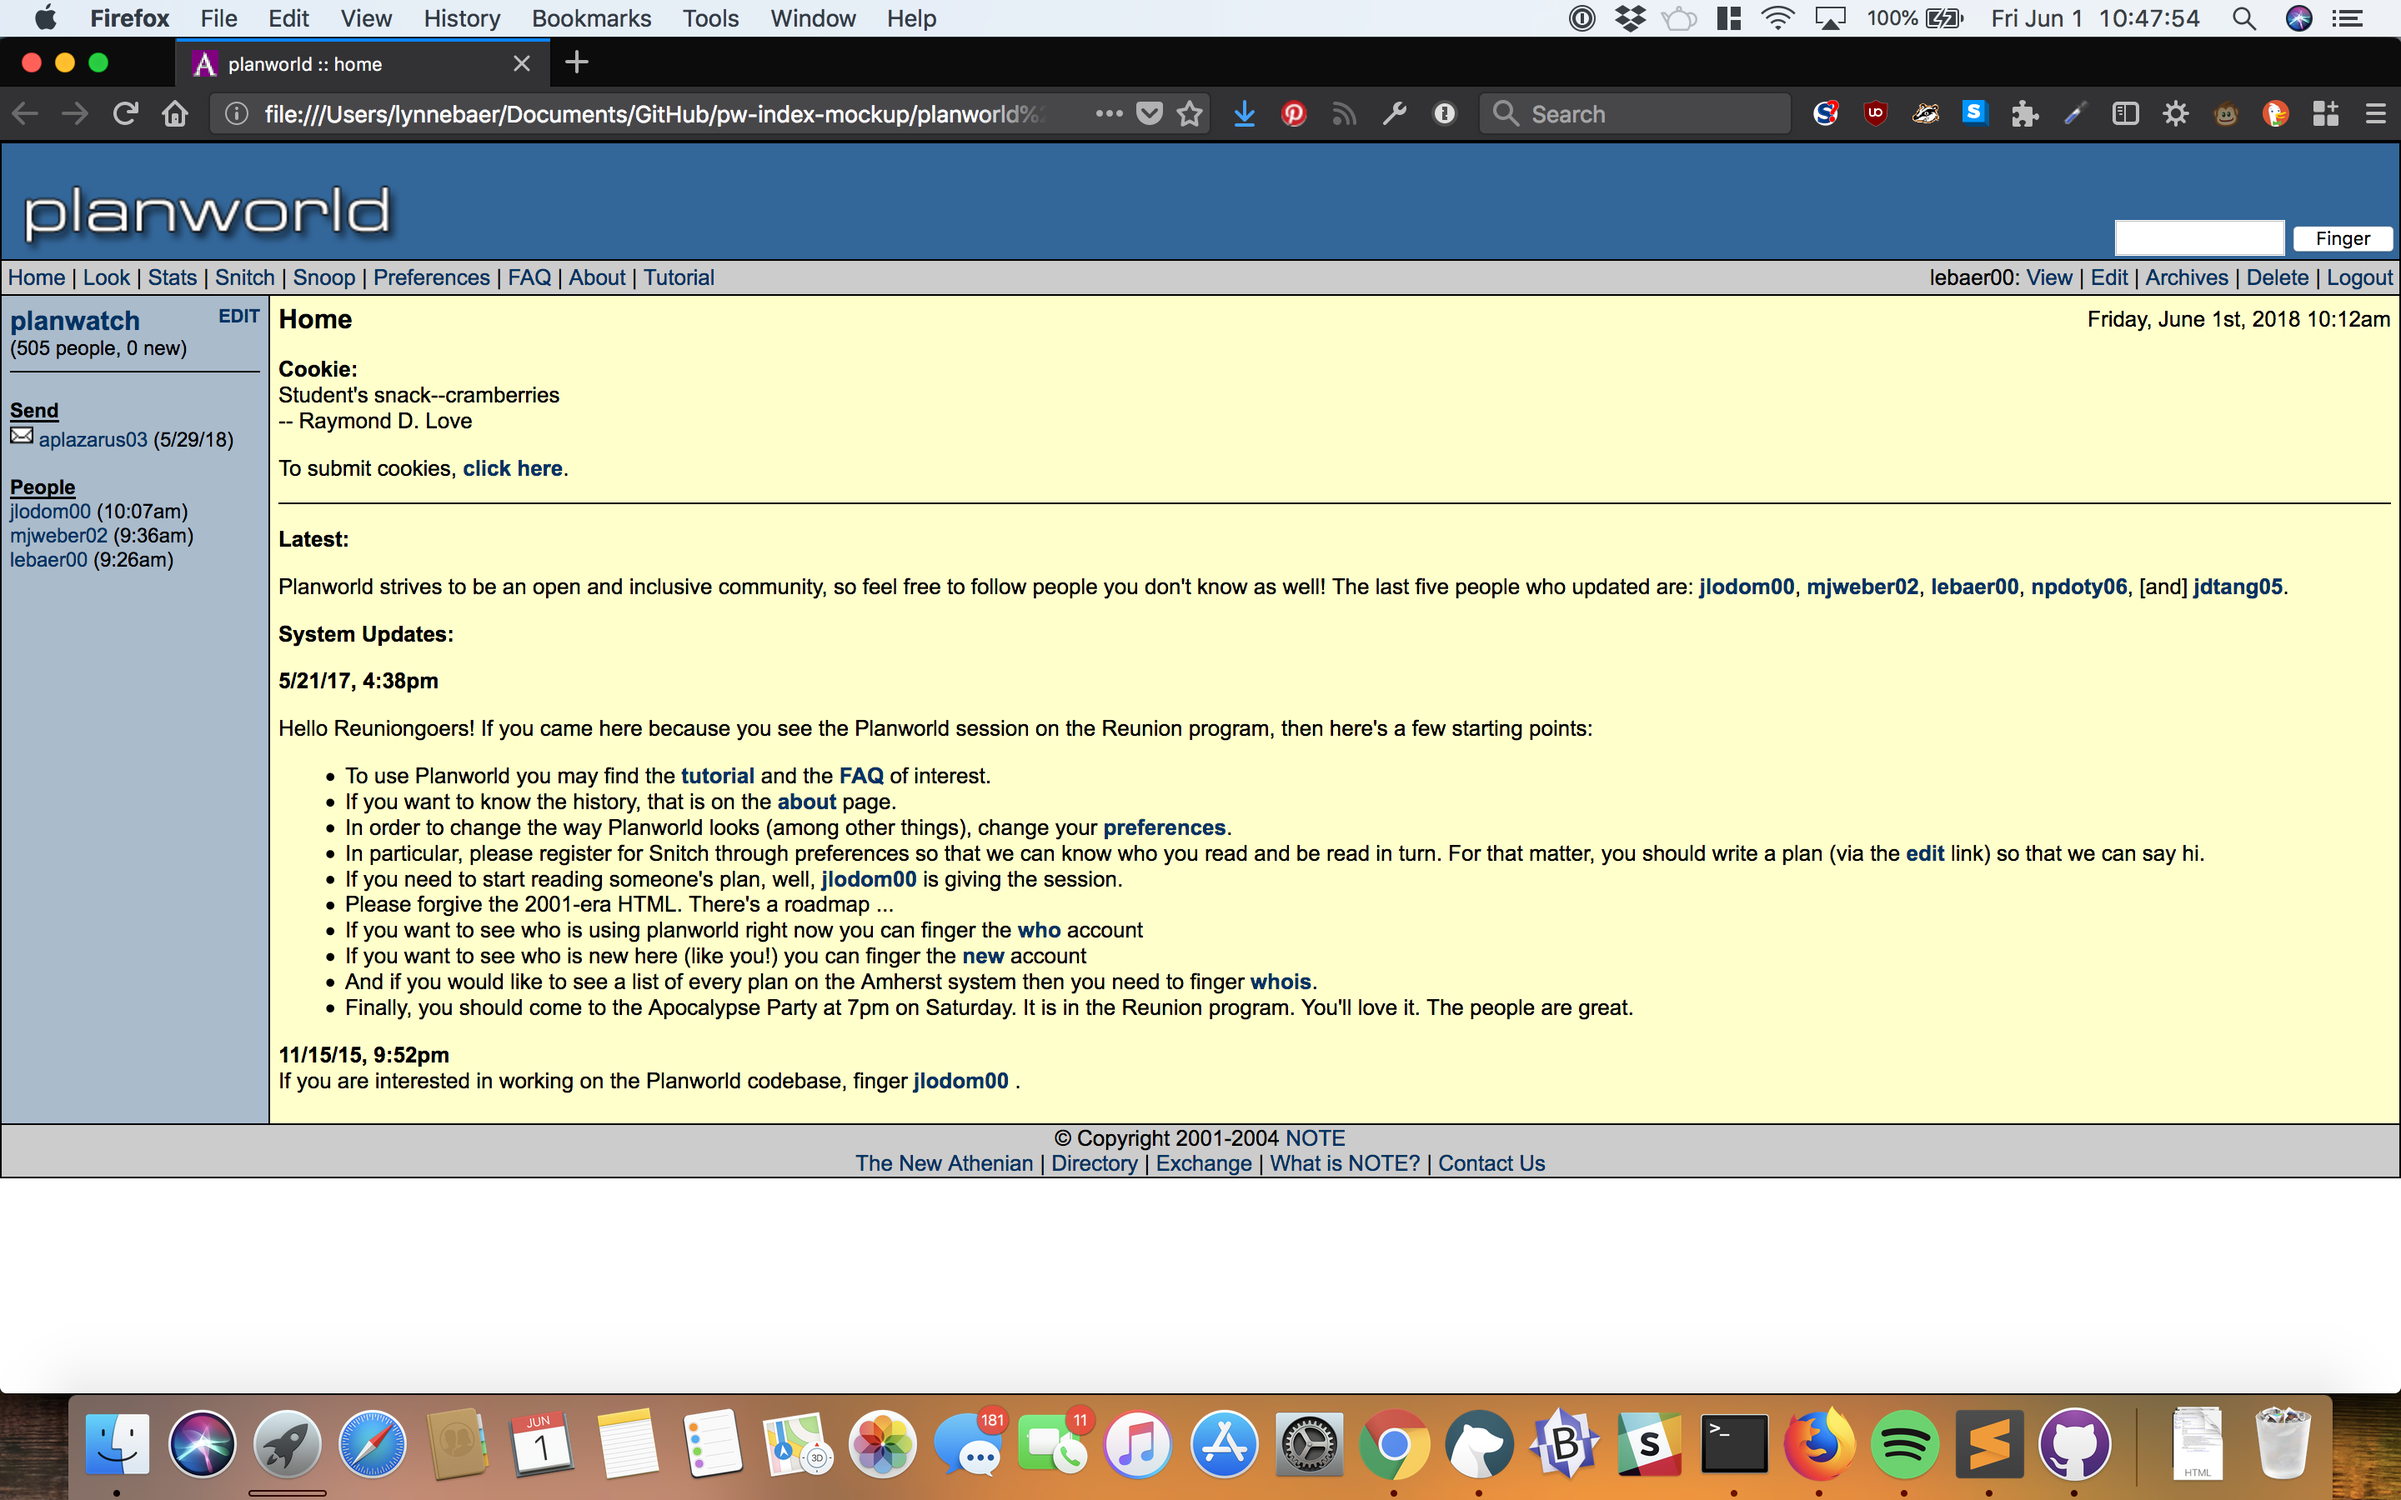
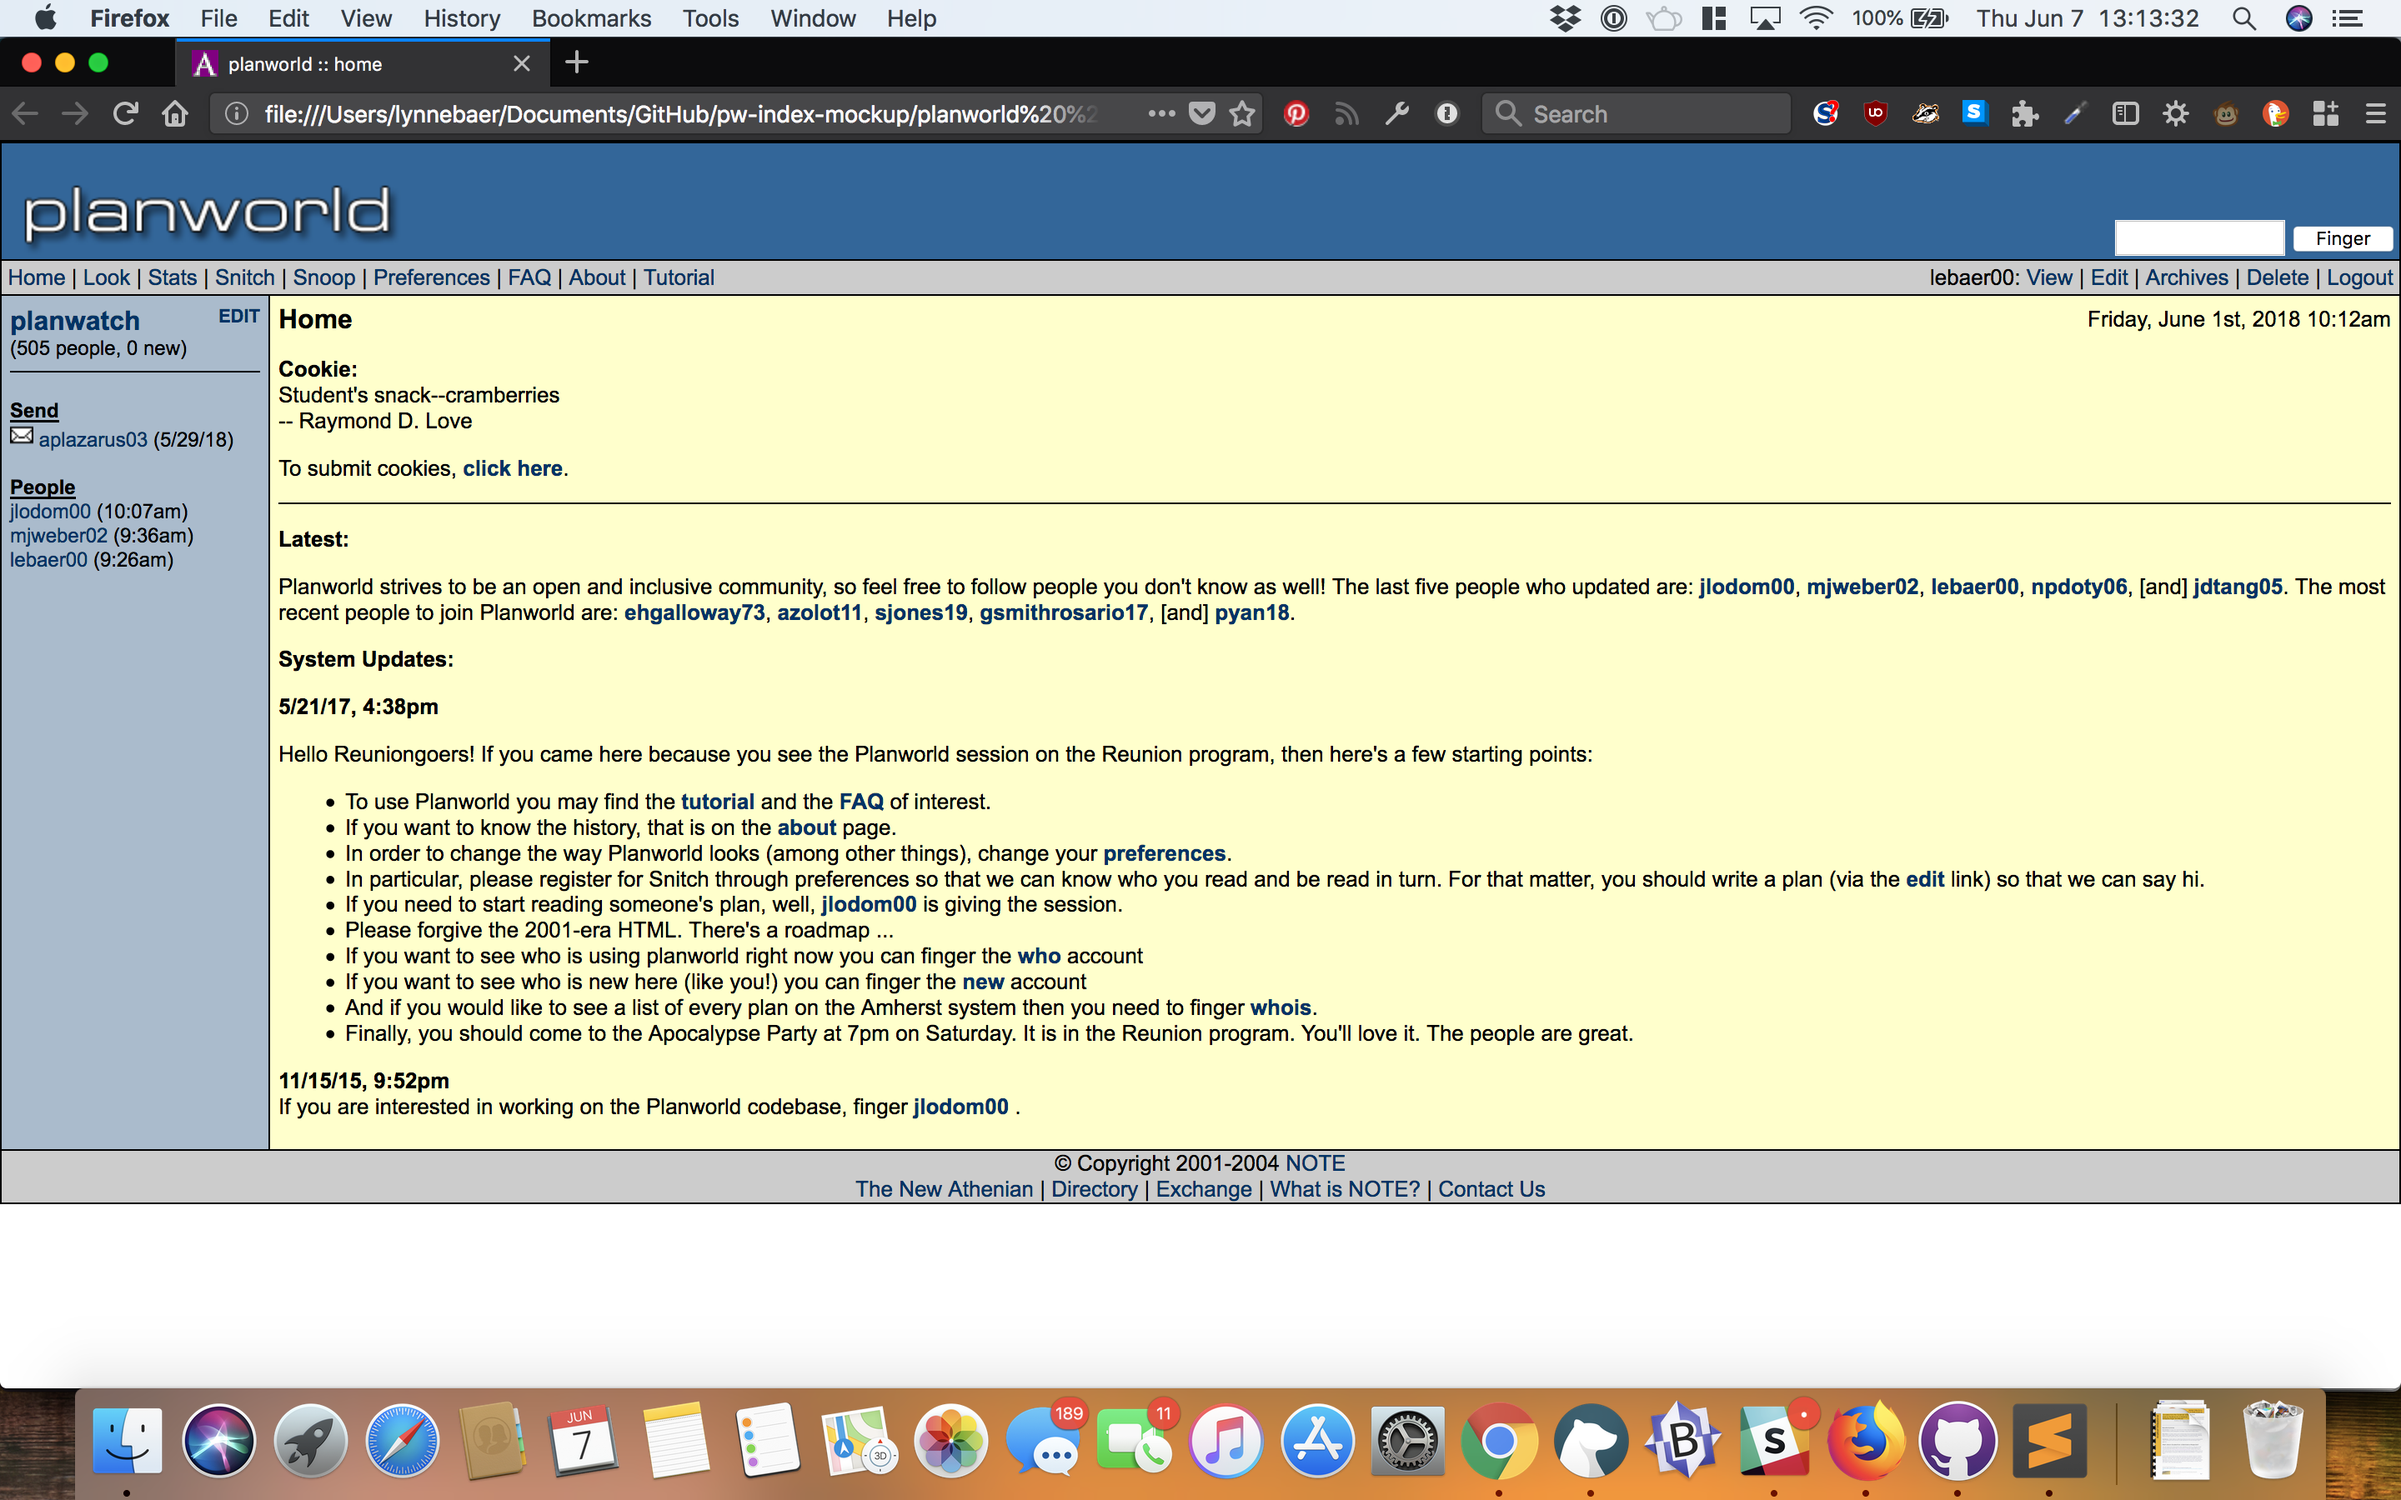
added newest users
want to include both getLastUpdates() and getNewUsers()

diff --git a/planworld   home.html b/planworld   home.html
@@ -150,8 +150,12 @@ Student's snack--cramberries
 <hr size="1" noshade="noshade">
 <p><strong>Latest:</strong><br>
 
+<!-- Looking at /lib/User.php; presuming I'll need to call getLastUpdates() [from Planworld.php? Seems more likely than getLastUpdate() from User.php] for the "most recently updated" set of names, and getNewUsers() [again Planworld.php] for the "most recently joined" set of names. -->
+
 <p>Planworld strives to be an open and inclusive community, so feel free to follow people you don't know as well! The last five people who updated are: 
-<a href="/planworld/?id=jlodom00">jlodom00</a>, <a href="/planworld/?id=mjweber02">mjweber02</a>, <a href="/planworld/?id=lebaer00">lebaer00</a>, <a href="npdoty06">npdoty06</a>, [and] <a href="jdtang05">jdtang05</a>.
+<a href="/planworld/?id=jlodom00">jlodom00</a>, <a href="/planworld/?id=mjweber02">mjweber02</a>, <a href="/planworld/?id=lebaer00">lebaer00</a>, <a href="npdoty06">npdoty06</a>, [and] <a href="jdtang05">jdtang05</a>. The most recent people to join Planworld are: <a href="/planworld/?id=ehgalloway73">ehgalloway73</a>, <a href="/planworld/?id=azolot11">azolot11</a>, <a href="/planworld/?id=sjones19">sjones19</a>, <a href="/planworld/?id=gsmithrosario17">gsmithrosario17</a>, [and] <a href="/planworld/?id=pyan18">pyan18</a>.
+
+<!-- The [and]s would be nice from a grammatical standpoint but not necessary in a first draft; let's get the appropriate number of names out of the array before we get schmancy for display here -->
 
 <p><strong>System Updates:</strong><br>
 </p><p><strong>5/21/17, 4:38pm</strong><br>
